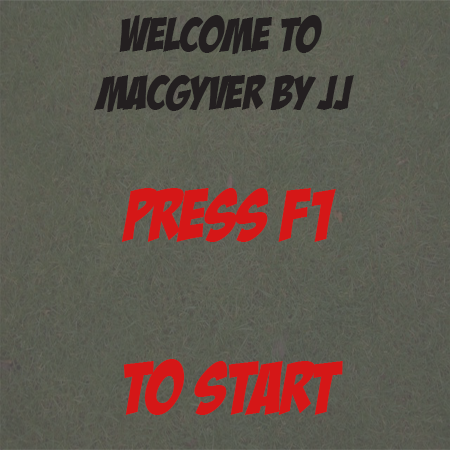
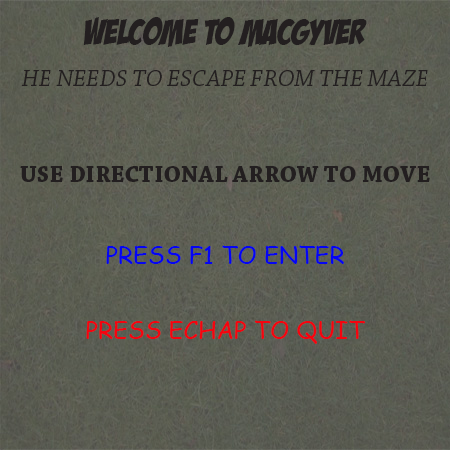
modif du readme, de l'image d'accueil

diff --git a/class_gyv.py b/class_gyv.py
@@ -66,7 +66,7 @@ class RandomObjects:
         self.y = 0
         self.level = level
         self.check = True
-        self.img_items = pygame.image.load(img_items).convert_alpha()
+        self.img_items = pygame.image.load(img_items).convert()
         self.structure = level.structure
 
     def showme_item(self, window):

diff --git a/README.md b/README.md
@@ -1,2 +1,31 @@
 # MacGiver
-cet escroc qui ne dit pas son nom !
+Summary
+Imagine a 2D labyrinth in which MacGyver would have been locked up. The exit is watched over by a bodyguard. To distract him, you need to combine the following elements dispersed in the labyrinth:
+
+a needle
+a tube
+ether
+
+
+Usage
+This program is a standalone
+
+Files
+mcgivgame.py, main script the one to run
+constant.py, place for constants 
+class_gyv.py, Maze class, player class, objects class
+images/, directory for image files
+Level.txt, files for maze
+requirement.txt, dependences for feeding pip
+README.md, you're reading it!
+
+Features
+One level. The structure (departure, location of the walls, arrival), should be saved in a file to easily modify it if necessary.
+MacGyver will be controlled by the directional keys on the keyboard.
+The objects will be randomly distributed in the maze and will change locations if the user closes the game and raises it.
+The game window will be a square of 15 sprites length.
+MacGyver will have to move from square to square, with 15 squares along the window's length
+It will retrieve an object simply by moving on it.
+The program stops only if MacGyver has recovered all objects and found the exit from the maze. If he stupid enough to comes in front of the the guard without all the objects, he dies (according to the evolution theory).
+The program will be standalone, i. e. it can be run on any computer.
+
